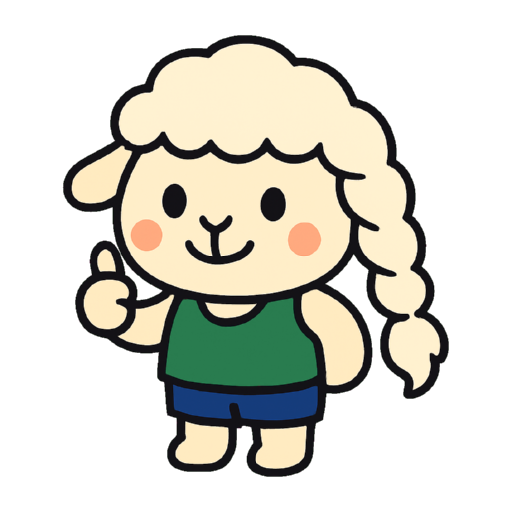
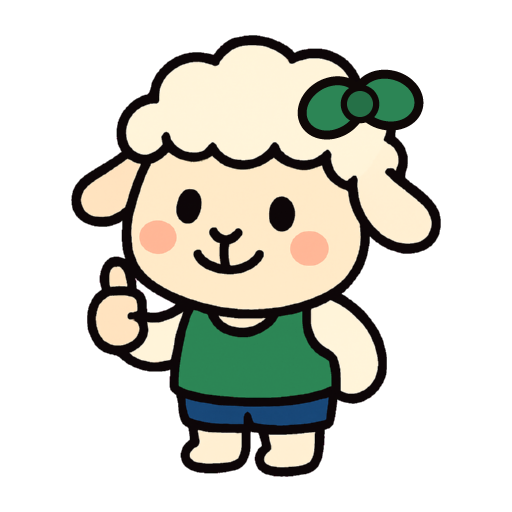
feat(마스코트): 여성형 구분을 "땋은 울" → 머리 리본으로 + 마이 탭 라벨 한 줄로
## 왜 리본인가 (회장 지시 "머리가 있어 너무 어색하다")
양은 머리카락이 아니라 **울로 덮인 동물**이라, 헤어스타일로 두 종류를 가르려는 것 자체가
형태와 싸우는 일이었다 — 땋은 머리가 곱슬 울과 겹쳐 어색했다. 리본은 울 위에 **얹히는
소품**이라 충돌이 없다.

## 왜 목이 아니라 머리인가
목 리본(보타이)은 정면에서 작게 보여 **36px 아바타에서 사라진다**. 머리 오른쪽 위에 달면
머리 윤곽 밖으로 삐져나와 실루엣 자체가 달라져, 작은 크기에서도 두 종류가 갈린다.
오른쪽인 이유는 왼쪽에 엄지척 손이 있어 그쪽이 이미 시각적으로 무겁기 때문.
(실기기 40px 썸네일에서 리본이 또렷하게 읽히는 것 확인)

## 왜 AI 재생성이 아니라 코드인가
recolor-mascot-vest.mjs와 같은 이유 — AI로 두 번 그리면 실루엣·비율이 미묘하게 달라져
"같은 양의 다른 모습"이 아니라 다른 양이 된다. 이제 **4종 전부 한 장의 원본에서 파생**된다.
덤으로 이미지 생성 API 비용도 들지 않는다.
- scripts/add-mascot-ribbon.mjs 신규: 조끼 색을 원본에서 샘플링해 리본에 쓰고(리본과 조끼가
  세트로 보이게), 매듭은 한 톤 진하게, 아웃라인은 마스코트 선화와 같은 두께(9px).
  4×4 슈퍼샘플링으로 두꺼운 검정 아웃라인의 계단을 없앴다.

## 마이 탭 라벨 (회장 지적 "글자가 너무 길어 한 줄이 넘어간다")
4칸을 가로로 나누면 320dp 기준기에서 칸 폭이 66dp뿐이라 "동글 울 · 레드"(8글자)가 두 줄로
갈라졌다 → "기본 레드 / 기본 그린 / 리본 레드 / 리본 그린"(가운뎃점 제거, 4글자).
numberOfLines={1}로 넘침을 원천 차단하고, 한 줄 칩 라벨이 됐으므로 lineHeight도 걷어냈다
(단일행에 주면 효과 없이 박스 높이만 커진다 — brand.ts leading() 주석의 예외 규칙).

내부 타입명(m-red 등)·파일명은 그대로 둔다 — 바꾸면 AsyncStorage에 저장된 선택이 끊긴다.

검증: tsc 0에러 · 실기기(갤럭시S21) 캐릭터 선택 4칸 라벨 한 줄 확인 · 리본 선택 시 프로필
히어로 아바타 즉시 반영 확인.

Changed region(s): [[0.125, 0.0625, 0.875, 0.9375]]

diff --git a/app/src/app/my.tsx b/app/src/app/my.tsx
@@ -43,14 +43,19 @@ import { setProfilePhoto, useProfilePhoto } from "@/lib/profile-photo";
  *  포장할 이유가 없고, 『5키로』의 친숙어 톤과도 어긋난다(2026-07-28 디자인 리드 결정).
  *  4종을 실제로 가르는 건 성별이 아니라 **울 모양(동글/땋은 스타일) + 레드/그린(팀색)**이다.
  *
- *  2026-07-30 마스코트 전면교체(양) — 형태 라벨을 "숏컷/포니테일"(사람 머리 은유)에서
- *  "동글 울/땋은 울"(양 특성)로 갱신. **내부 타입명(m-red 등)·파일명은 그대로 둔다**
- *  — 노출 카피만 바꾸면 되는 일이라 전면 개명은 낭비(AsyncStorage 마이그레이션도 불필요). */
+ *  2026-07-31 구분을 **리본**으로 교체(회장 지시 "머리가 있어 너무 어색하다"). 땋은 머리는
+ *  양의 곱슬 울과 겹쳐 형태와 싸웠다 — 양은 머리카락이 아니라 울로 덮인 동물이다.
+ *  **내부 타입명(m-red 등)·파일명은 그대로 둔다** — 노출 카피만 바꾸면 되는 일이고,
+ *  바꾸면 AsyncStorage에 저장된 선택이 끊긴다.
+ *
+ *  ⚠ 라벨은 **한 줄에 들어가야 한다.** 4칸을 가로로 나누면 320dp 기준기에서 칸 폭이
+ *  66dp뿐이라 "동글 울 · 레드"(8글자)가 두 줄로 갈라졌다(회장 지적). 가운뎃점을 빼고
+ *  4글자로 줄였다 — 넘치면 `numberOfLines={1}`이 말줄임으로 막는다. */
 const MASCOT_LABEL: Record<MascotKind, string> = {
-  "m-red": "동글 울 · 레드",
-  "m-green": "동글 울 · 그린",
-  "f-red": "땋은 울 · 레드",
-  "f-green": "땋은 울 · 그린",
+  "m-red": "기본 레드",
+  "m-green": "기본 그린",
+  "f-red": "리본 레드",
+  "f-green": "리본 그린",
 };
 import { useMyName } from "@/lib/session";
 import { badgeProgress, personalStats } from "@/lib/stats";
@@ -284,8 +289,11 @@ export default function MyScreen() {
                     style={[styles.mascotOpt, mascot === k && styles.mascotOptOn]}
                     onPress={() => void setMascot(k)}>
                     <Mascot size={40} kind={k} />
-                    {/* 44px 썸네일에선 머리띠 리본(남/여) 차이가 안 보여 4개가 같아 보였다 → 라벨로 구분. */}
-                    <Text style={[styles.mascotOptText, mascot === k && styles.mascotOptTextOn]}>
+                    {/* 40px 썸네일에서도 리본이 머리 윤곽 밖으로 나와 실루엣이 갈리지만,
+                        팀색까지 한눈에 읽히진 않아 라벨을 함께 둔다. */}
+                    <Text
+                      style={[styles.mascotOptText, mascot === k && styles.mascotOptTextOn]}
+                      numberOfLines={1}>
                       {MASCOT_LABEL[k]}
                     </Text>
                   </PressableScale>
@@ -520,7 +528,8 @@ const styles = StyleSheet.create({
     justifyContent: "center",
   },
   mascotOptOn: { borderColor: Brand.brand, backgroundColor: Brand.brandSoft },
-  mascotOptText: { fontFamily: FONT, fontSize: 10.5, lineHeight: leading(10.5), color: Brand.soft, fontWeight: Weight.regular },
+  // ⚠ lineHeight를 주지 않는다 — 한 줄짜리 칩 라벨이라 줄간격 효과는 없이 박스 높이만 커진다.
+  mascotOptText: { fontFamily: FONT, fontSize: 10.5, color: Brand.soft, fontWeight: Weight.regular },
   mascotOptTextOn: { color: Brand.brandDeep, fontWeight: Weight.bold },
   pLabel: { fontFamily: FONT,
     fontSize: 12, lineHeight: leading(12), fontWeight: Weight.regular, color: Brand.soft },

diff --git a/app/src/lib/mascot.ts b/app/src/lib/mascot.ts
@@ -4,11 +4,15 @@
  * 2026-07-30 전면교체: 파란 피부 러너 → **양(sheep)**. 회장 지시("동물 의인화로 아예 새로")
  * + 팔레트 안 A(크림 러너) 확정에 맞춰 재생성. 자문: docs/MASCOT_PALETTE_DIRECTION.md.
  *
- * 4종 = 울 모양(동글/땋은 스타일, 예전 라벨 "숏컷/포니테일"의 후속) × 팀 색(레드/그린 조끼).
- * 울 모양 2종은 gpt-image-1에 **레퍼런스 이미지로 캐릭터를 고정**시켜 따로 생성(같은 얼굴·비율
- * 유지, 울 모양만 다르게 — `docs/OPENAI_IMAGE_GEN.md` 5절 기법). 팀 색(레드→그린)은 그 위에서
- * **코드로 파생**(scripts/recolor-mascot-vest.mjs, 조끼 hue만 골라 밝기비 유지한 채 재도색) —
- * AI로 두 번 그리면 실루엣이 미묘하게 달라져 "같은 양의 다른 팀"이 아니라 다른 양이 된다.
+ * 4종 = 리본 유무 × 팀 색(레드/그린 조끼). **네 장 모두 한 장의 원본에서 코드로 파생**한다:
+ * 팀 색은 `scripts/recolor-mascot-vest.mjs`(조끼 hue만 밝기비 유지한 채 재도색),
+ * 리본은 `scripts/add-mascot-ribbon.mjs`(머리 오른쪽 위에 조끼색 리본 합성).
+ * AI로 두 번 그리면 실루엣이 미묘하게 달라져 "같은 양의 다른 모습"이 아니라 다른 양이 된다.
+ *
+ * 2026-07-31 구분을 **울 모양(동글/땋은) → 리본**으로 교체(회장 지시). 땋은 머리가 양의 곱슬
+ * 울과 겹쳐 어색했다 — 양은 머리카락이 아니라 울로 덮인 동물이라, 헤어스타일로 가르려는 것
+ * 자체가 형태와 싸우는 일이었다. 리본은 울 위에 **얹히는 소품**이라 충돌이 없고,
+ * 머리 윤곽 밖으로 삐져나와 **36px 아바타에서도 실루엣이 갈린다**.
  * 배경 제거는 scripts/cutout-mascot-bg.mjs(마젠타 크로마키) + strip-mascot-shadow.mjs.
  *
  * 러너 네임으로는 취향을 알 수 없어 **마이 탭에서 고르게** 한다. 취향 설정이라 이 기기(AsyncStorage)에만.

diff --git a/CLAUDE.md b/CLAUDE.md
@@ -106,10 +106,11 @@ powershell.exe -NoProfile -Command "& '$A' logcat -d -b crash"   # 패키지명=
     ⚠ **검증 기준기(테스트 갤럭시S21)는 디스플레이 배율이 올라가 있어 실제 320×711dp**(density 480→540). 기준보다 12.5% 좁으니 여기서 안 잘리면 대부분의 폰에서 안전하다 — 긴 한글 카피는 13자 안쪽으로
   - 보조 기능이 첫 뷰포트를 먹지 않게 한다: 러닝 탭 '직접 입력'은 목록 **아래**(FlatList footer), 마이 탭 캐릭터 4종은 **접어두고** [바꾸기]로 펼친다
 - **공유 카드는 SVG 절대좌표**(`components/share-card.tsx` · 1080px 기준). RN과 달리 **레이아웃 엔진이 없어 넘친 글자가 조용히 잘린다** — 좌표·폰트크기를 만졌으면 반드시 `cd app && node --experimental-strip-types scripts/check-share-card.ts`로 최악 케이스(마라톤 거리·20자 이름·6시간 러닝)를 먼저 검산할 것. 글자 폭은 눈대중이 아니라 폰트 `hmtx` 실측값(`lib/text-metrics.ts`).
-- **마스코트 = 양『오키』** 4종(`assets/images/mascot-{m,f}-{red,green}.png`, 2026-07-30 사람→양 전면교체). 4종 = **동글 울 / 땋은 울**(형태) × 레드 / 그린(조끼). 파일명·내부 타입(`m-`/`f-`)은 유지 — 바꾸면 저장된 선택이 끊긴다.
+- **마스코트 = 양『오키』** 4종(`assets/images/mascot-{m,f}-{red,green}.png`, 2026-07-30 사람→양 전면교체). 4종 = **리본 유무** × 레드 / 그린(조끼). 파일명·내부 타입(`m-`/`f-`)은 유지 — 바꾸면 저장된 선택이 끊긴다.
+  - **구분은 헤어스타일이 아니라 소품으로**(2026-07-31 회장 지시로 "땋은 울" 폐기). 양은 머리카락이 아니라 **울로 덮인 동물**이라 헤어스타일 구분은 형태와 싸운다 — 땋은 머리가 곱슬 울과 겹쳐 어색했다. 리본은 울 위에 얹히는 소품이라 충돌이 없고, **머리 윤곽 밖으로 삐져나와 36px 아바타에서도 실루엣이 갈린다**(목 리본은 정면에서 작아 그 크기에서 사라진다).
   - **이름은 남용 금지.** `MASCOT_NAME` 상수 하나로 정의하고 **마스코트가 실제로 그려진 자리 중 이름이 정보가 되는 곳**에만(마이 탭 캐릭터 섹션 · 배지 축하). 빈 상태·온보딩엔 넣지 않는다 — 반복 노출 지점에 1인칭을 쓰면 3050 남성에게 유치함이 누적된다.
   - **재생성 시 통과 조건**(시안 5컷을 버리며 얻은 것): **늘어진 귀 + 곱슬 울 + 짧고 뭉툭한 주둥이**(길면 말·당나귀로 읽힘) + **정면 3/4 상반신 중심**(측면 전신은 36px 아바타에서 얼굴이 사라진다) + **프레임 여백 명시**(안 하면 머리가 잘림). 얼굴을 살구색 사람 피부로 두면 "곱슬머리 아기"가 된다.
-  - **팀색 변형은 AI 재생성이 아니라 코드로**: `scripts/recolor-mascot-vest.mjs`(조끼 hue만 밝기비 유지 재도색) — AI로 두 번 그리면 실루엣이 미묘하게 달라져 "같은 양의 다른 팀"이 아니라 다른 양이 된다. 배경 제거는 `cutout-mascot-bg.mjs`(마젠타 크로마키)·`strip-mascot-shadow.mjs`(발밑 그림자) → `optimize-mascot.mjs`(512px).
+  - **변형은 AI 재생성이 아니라 코드로** — 4종 전부 한 장의 원본에서 파생한다: `scripts/recolor-mascot-vest.mjs`(조끼 hue만 밝기비 유지 재도색) · `scripts/add-mascot-ribbon.mjs`(머리 오른쪽 위에 조끼색 리본 합성, 512px 절대좌표) — AI로 두 번 그리면 실루엣이 미묘하게 달라져 "같은 양의 다른 팀"이 아니라 다른 양이 된다. 배경 제거는 `cutout-mascot-bg.mjs`(마젠타 크로마키)·`strip-mascot-shadow.mjs`(발밑 그림자) → `optimize-mascot.mjs`(512px).
   - **앱 아이콘은 얼굴 클로즈업, 스플래시만 전신**. 안드로이드 어댑티브는 108dp 중 **가운데 66dp만 보장**돼 전신을 넣으면 발·귀가 잘린다. ⚠ `adaptiveIcon.backgroundImage`가 있으면 **`backgroundColor`보다 우선**한다(초록으로 바꿔도 소용없던 원인).
 - **큰 의존성 추가·배포·push는 실행 전 확인**. 커밋은 작은 단위, main 직접 커밋 시 브랜치 먼저.
 - **배포 방향(2026-07-18 결정) = 구글 플레이스토어 정식출시.** GitHub/APK 사이드로드는 접음(카톡 .apk 차단·Auto Blocker 마찰). 준비물: 개발자등록 $25(1회)·AAB 빌드·심사(위치/건강 권한). **급하지 않음 → 차분히 준비 트랙, 현재는 앱 기능 집중.** 실기기 테스트는 로컬 APK 빌드 유지. ⚠ **혼동주의**: Firebase(구글)=데이터DB(회원·글·이미지, 무료로 용량충분) ↔ APK=앱 설치파일. 둘은 별개.
